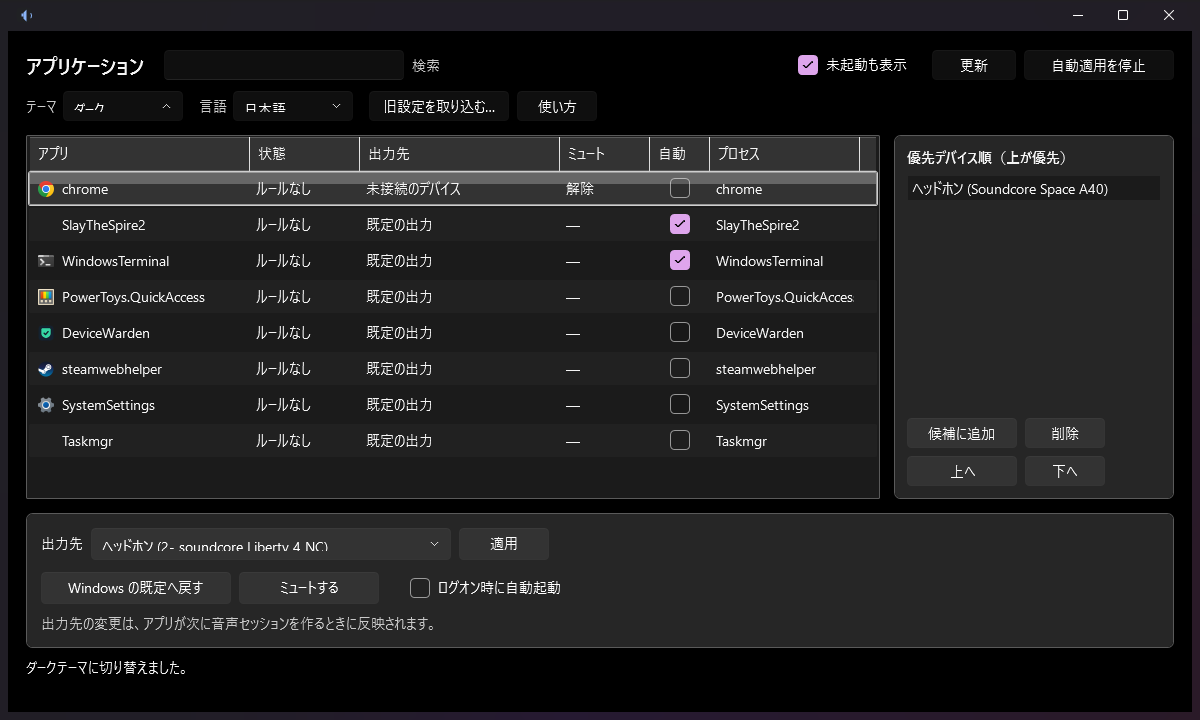
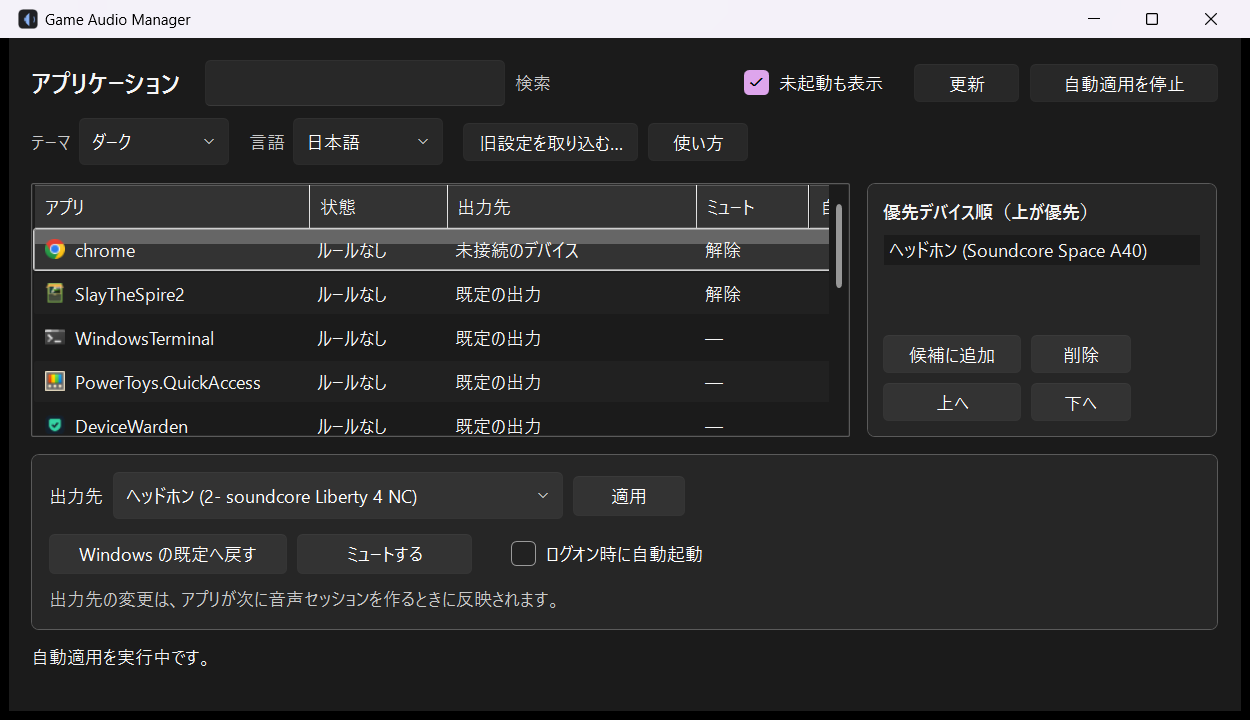
fix: stop combo box text from being clipped vertically (#55)

diff --git a/src/GameAudioManager.App/MainWindow.xaml b/src/GameAudioManager.App/MainWindow.xaml
@@ -47,7 +47,7 @@
             <!-- The label sits next to the box; docking it right detached it on wide windows. -->
             <StackPanel Grid.Row="0" Grid.Column="1" Orientation="Horizontal"
                         Margin="20,0,0,0" VerticalAlignment="Center">
-                <TextBox x:Name="FilterBox" Width="240" Height="30"
+                <TextBox x:Name="FilterBox" Width="240" MinHeight="32"
                          VerticalContentAlignment="Center"
                          Text="{Binding FilterText, UpdateSourceTrigger=PropertyChanged}"
                          ToolTip="{Binding [Search], Source={x:Static app:Localization.Instance}}" />
@@ -72,14 +72,12 @@
                 <TextBlock VerticalAlignment="Center" Margin="0,0,6,0"
                            Foreground="{DynamicResource AppSubtleBrush}"
                            Text="{Binding [Theme], Source={x:Static app:Localization.Instance}}" />
-                <ComboBox x:Name="ThemeCombo" Width="120" Height="30"
-                          VerticalContentAlignment="Center"
+                <ComboBox x:Name="ThemeCombo" Width="120" MinHeight="32"
                           SelectionChanged="OnThemeChanged" />
                 <TextBlock VerticalAlignment="Center" Margin="16,0,6,0"
                            Foreground="{DynamicResource AppSubtleBrush}"
                            Text="{Binding [Language], Source={x:Static app:Localization.Instance}}" />
-                <ComboBox x:Name="LanguageCombo" Width="120" Height="30"
-                          VerticalContentAlignment="Center"
+                <ComboBox x:Name="LanguageCombo" Width="120" MinHeight="32"
                           SelectionChanged="OnLanguageChanged" />
                 <ui:Button Margin="16,0,0,0" Height="30" MinWidth="140"
                            Content="{Binding [ImportLegacy], Source={x:Static app:Localization.Instance}}"
@@ -137,7 +135,7 @@
                             </DataTemplate>
                         </GridViewColumn.CellTemplate>
                     </GridViewColumn>
-                    <GridViewColumn Width="150"
+                    <GridViewColumn Width="200"
                                     Header="{Binding [ColumnProcess], Source={x:Static app:Localization.Instance}}"
                                     DisplayMemberBinding="{Binding ProcessName}" />
                 </GridView>
@@ -210,7 +208,7 @@
                               SelectedItem="{Binding SelectedDevice, Mode=TwoWay}"
                               DisplayMemberPath="Name"
                               MinWidth="240" MaxWidth="520" Width="360"
-                              Height="32" VerticalContentAlignment="Center" />
+                              MinHeight="32" />
                     <ui:Button x:Name="ApplyButton" MinWidth="90" Height="32" Margin="8,0,0,0"
                                Content="{Binding [Apply], Source={x:Static app:Localization.Instance}}"
                                Click="OnApply" />
@@ -239,5 +237,7 @@
                    TextWrapping="Wrap" MinHeight="36" VerticalAlignment="Top" />
     </Grid>
 </Window>
+
+
 
 
